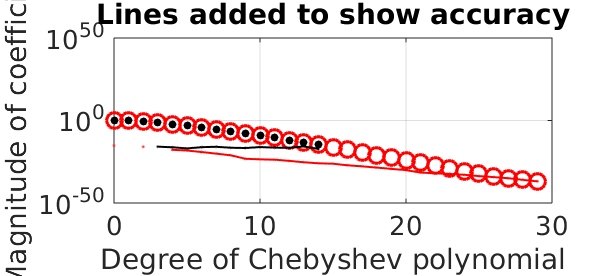
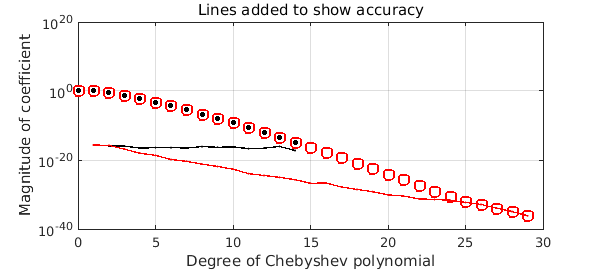
updating cheb/Turbo.m now that 'turbo' is in Chebfun

Changed region(s): [[0.0, 0.0, 0.93, 1.0], [0.45, 0.6519, 0.54, 0.6815]]

diff --git a/examples/cheb/Turbo.html b/examples/cheb/Turbo.html
@@ -61,34 +61,31 @@
     <div class="container">
 <div class="row main">
 <div id='content' class="col-sm-12 example" role="main">
-<pre class="mcode-input">function Turbo()</pre>
-
-<p>Chebfun works with standard floating-point arithmetic, usually giving about 16 digits of relative accuracy. So what's going on in the following picture?</p>
+<p>Chebfun works with standard floating-point arithmetic, usually giving about 15 digits of accuracy relative to the overall scale of a function. So what's going on in the following picture?</p>
 <pre class="mcode-input">f = chebfun(@exp);
-fturbo = chebfunturbo(@exp);
+fturbo = chebfun(@exp,'turbo');
 MS = 'markersize'; LW = 'linewidth';
 plotcoeffs(fturbo,'or',MS,8), grid on, hold on
 plotcoeffs(f,'.k',MS,14)
 title('Ordinary and turbocharged Cheb coeffs of exp(x)')</pre>
 
 <p><img src="img/Turbo_01.png" class="figure" alt=""/></p>
-<p>Somehow, using nothing but standard arithmetic, the <code>chebfunturbo</code> code finds coefficients down to about twice the usual level on a log scale.  And the improvement is genuine.  For example, the tenth derivative of <code>f</code> is not accurate at all:</p>
+<p>Somehow, using nothing but standard arithmetic, the <code>'turbo'</code> flag leads to Chebfun finding coefficients down to about twice the usual level on a log scale.  And the improvement is genuine.  For example, the tenth derivative of <code>f</code> is not accurate at all:</p>
 <pre class="mcode-input">f10 = diff(f,10); f10(0)</pre>
 
 <pre class="mcode-output">ans =
-   1.000002223524721
+   1.000002249308896
 </pre>
 
 <p>The tenth derivative of <code>fturbo</code>, on the other hand, has full accuracy.</p>
 <pre class="mcode-input">f10turbo = diff(fturbo,10); f10turbo(0)</pre>
 
 <pre class="mcode-output">ans =
-   1.000000000000001
+   1.000000000000038
 </pre>
 
-<p>The technique that makes this possible is evaluation of Chebyshev coefficients by contour integrals in the complex plane, discretized to high precision by the trapezoidal rule. Long ago, Lyness and Moler showed the power of the idea for Taylor coefficients, using circular contours [Lyness and Moler 1967], and Fornberg showed that improved accuracy could be achieved by an automatic determining of an effective radius for the circle of integration [Fornberg 1981]. More recently, Bornemann analyzed the effect of radius fully for Taylor coefficients, showing that in many cases every coefficient of a Taylor series can be computed in floating-point arithmetic to good relative accuracy by using a contour of sufficiently large radius [Bornemann 2011]. Wang and Huybrechs have carried over these ideas to computation of Chebyshev coefficients by contour integrals over Bernstein ellipses in the complex plane [Wang and Huybrechs 2014].</p>
-<p>The code <code>chebfunturbo</code> listed at the end of this Example implements a simple, nonoptimal version of this idea. We like to think of this as "turbocharged" since turbochargers take the exhaust tail from an engine and extract some extra power from it.</p>
-<p><code>chebfunturbo</code> starts from an ordinary chebfun, calling its length $n$. Then it computes $4n$ roots of unity and also the corresponding points on a Bernstein ellipse of parameter $\rho_2 = \rho^{2/3}$, where $\rho$ is the Chebfun ellipse for the ordinary chebfun, an estimate of the function's maximal Bernstein ellipse of analyticity.  (The mathematics of Bernstein ellipses is presented in Chapter 8 of [Trefethen 2013].) To compute Chebyshev coefficients from the ellipse data, it evaluates the function transplanted to the roots of unity and takes the FFT.  It then discards half the $4n$ coefficients, retaining the first $2n$.</p>
+<p>The technique that makes this possible is evaluation of Chebyshev coefficients by contour integrals in the complex plane, discretized to high precision by the trapezoidal rule. Long ago, Lyness and Moler showed the power of the idea for Taylor coefficients, using circular contours [Lyness and Moler 1967], and Fornberg showed that improved accuracy could be achieved by an automatic determination of an effective radius for the circle of integration [Fornberg 1981]. More recently, Bornemann analyzed the effect of radius fully for Taylor coefficients, showing that in many cases every coefficient of a Taylor series can be computed in floating-point arithmetic to good relative accuracy by using a contour of sufficiently large radius [Bornemann 2011]. Wang and Huybrechs have carried over these ideas to computation of Chebyshev coefficients by contour integrals over Bernstein ellipses in the complex plane [Wang and Huybrechs 2014].</p>
+<p>The <code>'turbo'</code> flag invokes a a simple, nonoptimal version of this idea. We like to think of this as "turbocharged" since turbochargers take the exhaust tail from an engine and extract some extra power from it.  The code is short, and you can see it in the Chebfun file <code>@chebtech/constructorTurbo.m</code>.  It starts from an ordinary chebfun, calling its length $n$. Then it computes $4n$ roots of unity and also the corresponding points on a Bernstein ellipse of parameter $\rho_2 = \rho^{2/3}$, where $\rho$ is the Chebfun ellipse for the ordinary chebfun, an estimate of the function's maximal Bernstein ellipse of analyticity.  (The mathematics of Bernstein ellipses is presented in Chapter 8 of [Trefethen 2013].) To compute Chebyshev coefficients from the ellipse data, it evaluates the function transplanted to the roots of unity and takes the FFT.  It then discards half the $4n$ coefficients, retaining the first $2n$.</p>
 <p>The Chebyshev coefficients of the exponential function are known exactly ([Trefethen 2013], p. 23). Taking advantage of this, we can add curves to the plot showing the accuracy of the coefficients.  Note that the turbo coefficients not only go to twice as high a degree, but they are more accurate all along.</p>
 <pre class="mcode-input">n = length(f); nn = (0:4*n-1)';
 cexact = 2*besseli((0:4*n-1)',1); cexact(1) = cexact(1)/2;
@@ -97,44 +94,22 @@ semilogy(0:2*n-1,abs(chebcoeffs(fturbo)-cexact(1:2*n)),'.-r',LW,1,MS,3)
 title('Lines added to show accuracy'), hold off</pre>
 
 <p><img src="img/Turbo_02.png" class="figure" alt=""/></p>
-<p>Using methods like this, we expect to introduce a <code>turbo</code> option in the chebfun constructor.  We don't imagine that this will be relevant to the typical Chebfun computation, but there may be some applications where it makes a difference.</p>
-<p>As a small indication of enhanced accuracy, here is a chebfun for the function $\exp(x) (1+100x^2)/(1+25x^2)$.  Mathematically, the function has a root at $x= 0.1i$.  Evaluating the ordinary chebfun at this point gives just 8 digits of accuracy.</p>
+<p>A chebfun constructed with <code>turbo</code> is not more accurate in an overall sense; it is merely that some of its higher-degree coefficients may be more accurate.  Thus it is not all all the case the <code>turbo</code> breaks the 16-digit barrier in a general way. But there may be some applications where it makes a difference. As a small indication of enhanced accuracy, here is a chebfun for the function $\exp(x) (1+100x^2)/(1+25x^2)$.  Mathematically, the function has a root at $x= 0.1i$.  Evaluating the ordinary chebfun at this point gives just 8 digits of accuracy.</p>
 <pre class="mcode-input">ff = @(x) exp(x).*(1+100*x.^2)./(1+25*x.^2);
 f = chebfun(ff);
 f(0.1i)</pre>
 
 <pre class="mcode-output">ans =
-      4.965066402462526e-08 + 1.908732122357648e-08i
+      3.075315468947792e-08 + 1.153521117513989e-08i
 </pre>
 
 <p>The turbocharged version of $f$, on the other hand, gets full accuracy.</p>
-<pre class="mcode-input">fturbo = chebfunturbo(ff);
+<pre class="mcode-input">fturbo = chebfun(ff,'turbo');
 fturbo(0.1i)</pre>
 
 <pre class="mcode-output">ans =
-      3.552713678800501e-15 + 3.330669073875470e-16i
+      0.000000000000000e+00 + 1.054711873393899e-15i
 </pre>
-
-<pre class="mcode-input">function fturbo = chebfunturbo(ff)
-
-% Simple test code that returns a "turbocharged" chebfun for the
-% function @(x) ff(x) on [-1,1].  In many cases this will have
-% more Chebyshev coeffs than an ordinary Chebfun, and more accurate.
-
-f = chebfun(ff);                         % ordinary chebfun made from ff
-n = length(f);                           % length of the ordinary
-rho = eps^(-1/(n-1));                    % Chebfun's value of rho
-rho2 = rho^(2/3);                        % smaller rho defining a "turbo ellipse"
-n4 = 4*n;                                % no. of sample pts on turbo ellipse
-z = exp(2i*pi*(0:n4-1)'/n4);             % 4n roots of unity
-w = (rho2*z+1./(rho2*z))/2;              % corresponding points on turbo ellipse
-fc = fft(ff(w))/n4;
-c = 2*fc./rho2.^(0:n4-1)';
-c(1) = c(1)/2;                           % coeffs computed from turbo ellipse
-c = c(1:2*n);                            % keep only 2n of them
-if norm(imag(c))&lt;1e-8, c = real(c); end  % discard imaginary rounding errors
-fturbo = chebfun(c,'coeffs');            % make the chebfun from its coeffs
-end</pre>
 
 <p>References:</p>
 <ol>
@@ -153,8 +128,7 @@ end</pre>
 <li>
 <p>H. Wang and D Huybrechs, Fast and highly accurate computation of Chebyshev expansions coefficients of analytic functions, submitted, 2014.</p>
 </li>
-</ol>
-<pre class="mcode-input">end</pre></div>
+</ol></div>
         </div>
     </div>
 </div>

diff --git a/examples/cheb/img/Turbo.html b/examples/cheb/img/Turbo.html
@@ -5,28 +5,26 @@ authordate: "Anthony Austin and Nick Trefethen, July 2015"
 meta: "(Chebfun example cheb/Turbo.m) [Tags: #Wang-Huybrechs, #contour integral, #Bernstein ellipse, #accuracy]"
 ---
 
-<pre class="mcode-input">function Turbo()</pre>Chebfun works with standard floating-point arithmetic, usually giving about 16 digits of relative accuracy. So what's going on in the following picture?
+Chebfun works with standard floating-point arithmetic, usually giving about 15 digits of accuracy relative to the overall scale of a function. So what's going on in the following picture?
 
 <pre class="mcode-input">f = chebfun(@exp);
-fturbo = chebfunturbo(@exp);
+fturbo = chebfun(@exp,'turbo');
 MS = 'markersize'; LW = 'linewidth';
 plotcoeffs(fturbo,'or',MS,8), grid on, hold on
 plotcoeffs(f,'.k',MS,14)
 title('Ordinary and turbocharged Cheb coeffs of exp(x)')</pre><img src="img/Turbo_01.png" class="figure" alt=""/>
 
-Somehow, using nothing but standard arithmetic, the `chebfunturbo` code finds coefficients down to about twice the usual level on a log scale.  And the improvement is genuine.  For example, the tenth derivative of `f` is not accurate at all:
+Somehow, using nothing but standard arithmetic, the `'turbo'` flag leads to Chebfun finding coefficients down to about twice the usual level on a log scale.  And the improvement is genuine.  For example, the tenth derivative of `f` is not accurate at all:
 
 <pre class="mcode-input">f10 = diff(f,10); f10(0)</pre><pre class="mcode-output">ans =
-   1.000002223524721
+   1.000002249308896
 </pre>The tenth derivative of `fturbo`, on the other hand, has full accuracy.
 
 <pre class="mcode-input">f10turbo = diff(fturbo,10); f10turbo(0)</pre><pre class="mcode-output">ans =
-   1.000000000000001
-</pre>The technique that makes this possible is evaluation of Chebyshev coefficients by contour integrals in the complex plane, discretized to high precision by the trapezoidal rule. Long ago, Lyness and Moler showed the power of the idea for Taylor coefficients, using circular contours [Lyness and Moler 1967], and Fornberg showed that improved accuracy could be achieved by an automatic determining of an effective radius for the circle of integration [Fornberg 1981]. More recently, Bornemann analyzed the effect of radius fully for Taylor coefficients, showing that in many cases every coefficient of a Taylor series can be computed in floating-point arithmetic to good relative accuracy by using a contour of sufficiently large radius [Bornemann 2011]. Wang and Huybrechs have carried over these ideas to computation of Chebyshev coefficients by contour integrals over Bernstein ellipses in the complex plane [Wang and Huybrechs 2014].
+   1.000000000000038
+</pre>The technique that makes this possible is evaluation of Chebyshev coefficients by contour integrals in the complex plane, discretized to high precision by the trapezoidal rule. Long ago, Lyness and Moler showed the power of the idea for Taylor coefficients, using circular contours [Lyness and Moler 1967], and Fornberg showed that improved accuracy could be achieved by an automatic determination of an effective radius for the circle of integration [Fornberg 1981]. More recently, Bornemann analyzed the effect of radius fully for Taylor coefficients, showing that in many cases every coefficient of a Taylor series can be computed in floating-point arithmetic to good relative accuracy by using a contour of sufficiently large radius [Bornemann 2011]. Wang and Huybrechs have carried over these ideas to computation of Chebyshev coefficients by contour integrals over Bernstein ellipses in the complex plane [Wang and Huybrechs 2014].
 
-The code `chebfunturbo` listed at the end of this Example implements a simple, nonoptimal version of this idea. We like to think of this as "turbocharged" since turbochargers take the exhaust tail from an engine and extract some extra power from it.
-
-`chebfunturbo` starts from an ordinary chebfun, calling its length $n$. Then it computes $4n$ roots of unity and also the corresponding points on a Bernstein ellipse of parameter $\rho_2 = \rho^{2/3}$, where $\rho$ is the Chebfun ellipse for the ordinary chebfun, an estimate of the function's maximal Bernstein ellipse of analyticity.  (The mathematics of Bernstein ellipses is presented in Chapter 8 of [Trefethen 2013].) To compute Chebyshev coefficients from the ellipse data, it evaluates the function transplanted to the roots of unity and takes the FFT.  It then discards half the $4n$ coefficients, retaining the first $2n$.
+The `'turbo'` flag invokes a a simple, nonoptimal version of this idea. We like to think of this as "turbocharged" since turbochargers take the exhaust tail from an engine and extract some extra power from it.  The code is short, and you can see it in the Chebfun file `@chebtech/constructorTurbo.m`.  It starts from an ordinary chebfun, calling its length $n$. Then it computes $4n$ roots of unity and also the corresponding points on a Bernstein ellipse of parameter $\rho_2 = \rho^{2/3}$, where $\rho$ is the Chebfun ellipse for the ordinary chebfun, an estimate of the function's maximal Bernstein ellipse of analyticity.  (The mathematics of Bernstein ellipses is presented in Chapter 8 of [Trefethen 2013].) To compute Chebyshev coefficients from the ellipse data, it evaluates the function transplanted to the roots of unity and takes the FFT.  It then discards half the $4n$ coefficients, retaining the first $2n$.
 
 The Chebyshev coefficients of the exponential function are known exactly ([Trefethen 2013], p. 23). Taking advantage of this, we can add curves to the plot showing the accuracy of the coefficients.  Note that the turbo coefficients not only go to twice as high a degree, but they are more accurate all along.
 
@@ -36,39 +34,18 @@ semilogy(0:n-1,abs(chebcoeffs(f)-cexact(1:n)),'.-k',LW,1,MS,3)
 semilogy(0:2*n-1,abs(chebcoeffs(fturbo)-cexact(1:2*n)),'.-r',LW,1,MS,3)
 title('Lines added to show accuracy'), hold off</pre><img src="img/Turbo_02.png" class="figure" alt=""/>
 
-Using methods like this, we expect to introduce a `turbo` option in the chebfun constructor.  We don't imagine that this will be relevant to the typical Chebfun computation, but there may be some applications where it makes a difference.
-
-As a small indication of enhanced accuracy, here is a chebfun for the function $\exp(x) (1+100x^2)/(1+25x^2)$.  Mathematically, the function has a root at $x= 0.1i$.  Evaluating the ordinary chebfun at this point gives just 8 digits of accuracy.
+A chebfun constructed with `turbo` is not more accurate in an overall sense; it is merely that some of its higher-degree coefficients may be more accurate.  Thus it is not all all the case the `turbo` breaks the 16-digit barrier in a general way. But there may be some applications where it makes a difference. As a small indication of enhanced accuracy, here is a chebfun for the function $\exp(x) (1+100x^2)/(1+25x^2)$.  Mathematically, the function has a root at $x= 0.1i$.  Evaluating the ordinary chebfun at this point gives just 8 digits of accuracy.
 
 <pre class="mcode-input">ff = @(x) exp(x).*(1+100*x.^2)./(1+25*x.^2);
 f = chebfun(ff);
 f(0.1i)</pre><pre class="mcode-output">ans =
-      4.965066402462526e-08 + 1.908732122357648e-08i
+      3.075315468947792e-08 + 1.153521117513989e-08i
 </pre>The turbocharged version of $f$, on the other hand, gets full accuracy.
 
-<pre class="mcode-input">fturbo = chebfunturbo(ff);
+<pre class="mcode-input">fturbo = chebfun(ff,'turbo');
 fturbo(0.1i)</pre><pre class="mcode-output">ans =
-      3.552713678800501e-15 + 3.330669073875470e-16i
-</pre><pre class="mcode-input">function fturbo = chebfunturbo(ff)
-
-% Simple test code that returns a "turbocharged" chebfun for the
-% function @(x) ff(x) on [-1,1].  In many cases this will have
-% more Chebyshev coeffs than an ordinary Chebfun, and more accurate.
-
-f = chebfun(ff);                         % ordinary chebfun made from ff
-n = length(f);                           % length of the ordinary
-rho = eps^(-1/(n-1));                    % Chebfun's value of rho
-rho2 = rho^(2/3);                        % smaller rho defining a "turbo ellipse"
-n4 = 4*n;                                % no. of sample pts on turbo ellipse
-z = exp(2i*pi*(0:n4-1)'/n4);             % 4n roots of unity
-w = (rho2*z+1./(rho2*z))/2;              % corresponding points on turbo ellipse
-fc = fft(ff(w))/n4;
-c = 2*fc./rho2.^(0:n4-1)';
-c(1) = c(1)/2;                           % coeffs computed from turbo ellipse
-c = c(1:2*n);                            % keep only 2n of them
-if norm(imag(c))&lt;1e-8, c = real(c); end  % discard imaginary rounding errors
-fturbo = chebfun(c,'coeffs');            % make the chebfun from its coeffs
-end</pre>References:
+      0.000000000000000e+00 + 1.054711873393899e-15i
+</pre>References:
 
 1. F. Bornemann, Accuracy and stability of computing high-order derivatives of analytic functions by Cauchy integrals, _Foundations of Computational Mathematics_ (2011), 1--63.
 
@@ -80,4 +57,3 @@ end</pre>References:
 
 5. H. Wang and D Huybrechs, Fast and highly accurate computation of Chebyshev expansions coefficients of analytic functions, submitted, 2014.
 
-<pre class="mcode-input">end</pre>

diff --git a/index.html b/index.html
@@ -208,5 +208,5 @@ plot(minx(1),minx(2),'.w')
     <script type="text/javascript" src="/js/config.js"></script>
     <script type="text/javascript" src="/js/jquery.flexslider-min.js"></script>
   </body>
-<!-- Compiled on Wednesday, 09 December 2015 at 18:20. -->
+<!-- Compiled on Thursday, 10 December 2015 at 11:52. -->
 </html>

diff --git a/examples/cheb/Turbo.m b/examples/cheb/Turbo.m
@@ -5,21 +5,22 @@
 % (Chebfun example cheb/Turbo.m)
 % [Tags: #Wang-Huybrechs, #contour integral, #Bernstein ellipse, #accuracy]
 
-function Turbo()
 %%
 % Chebfun works with standard floating-point arithmetic,
-% usually giving about 16 digits of relative accuracy.
+% usually giving about 15 digits of accuracy relative to the
+% overall scale of a function.
 % So what's going on in the following picture?
 f = chebfun(@exp);
-fturbo = chebfunturbo(@exp);
+fturbo = chebfun(@exp,'turbo');
 MS = 'markersize'; LW = 'linewidth';
 plotcoeffs(fturbo,'or',MS,8), grid on, hold on
 plotcoeffs(f,'.k',MS,14)
 title('Ordinary and turbocharged Cheb coeffs of exp(x)')
 
 %%
-% Somehow, using nothing but standard arithmetic, the |chebfunturbo|
-% code finds coefficients down to about twice the usual level
+% Somehow, using nothing but standard arithmetic, the |'turbo'|
+% flag leads to Chebfun finding
+% coefficients down to about twice the usual level
 % on a log scale.  And the improvement is genuine.  For
 % example, the tenth derivative of |f| is not accurate at all:
 f10 = diff(f,10); f10(0)
@@ -37,7 +38,7 @@ f10turbo = diff(fturbo,10); f10turbo(0)
 % Lyness and Moler showed the power of the idea for Taylor coefficients, using
 % circular contours [Lyness and Moler 1967],
 % and Fornberg showed that improved accuracy could
-% be achieved by an automatic determining of an effective
+% be achieved by an automatic determination of an effective
 % radius for the circle of integration [Fornberg 1981].
 % More recently,
 % Bornemann analyzed the effect of radius fully for Taylor coefficients,
@@ -50,14 +51,11 @@ f10turbo = diff(fturbo,10); f10turbo(0)
 % [Wang and Huybrechs 2014].
 
 %%
-% The code |chebfunturbo| listed at the end of this Example
-% implements a simple, nonoptimal version of this idea.
+% The |'turbo'| flag invokes a a simple, nonoptimal version of this idea.
 % We like to think of this as "turbocharged" since turbochargers
 % take the exhaust tail from an engine and extract some extra
-% power from it.
-
-%%
-% |chebfunturbo| starts from 
+% power from it.  The code is short, and you can see it
+% in the Chebfun file |@chebtech/constructorTurbo.m|.  It starts from 
 % an ordinary chebfun, calling its length $n$.
 % Then it computes $4n$ roots of unity and also the corresponding
 % points on a Bernstein ellipse of parameter $\rho_2 = \rho^{2/3}$,
@@ -84,13 +82,11 @@ semilogy(0:2*n-1,abs(chebcoeffs(fturbo)-cexact(1:2*n)),'.-r',LW,1,MS,3)
 title('Lines added to show accuracy'), hold off
 
 %%
-% Using methods like this, we expect to introduce a
-% |turbo| option in the chebfun constructor.  We don't
-% imagine that this will be relevant to the typical Chebfun
-% computation, but there may be some applications where it makes
-% a difference. 
-
-%%
+% A chebfun constructed with |turbo| is not more accurate
+% in an overall sense; it is merely that some of its higher-degree
+% coefficients may be more accurate.  Thus it is not all all the
+% case the |turbo| breaks the 16-digit barrier in a general way.
+% But there may be some applications where it makes a difference. 
 % As a small indication of enhanced accuracy, here is a chebfun
 % for the function $\exp(x) (1+100x^2)/(1+25x^2)$.  Mathematically,
 % the function has a root at $x= 0.1i$.  Evaluating the ordinary chebfun
@@ -102,31 +98,9 @@ f(0.1i)
 %%
 % The turbocharged version of $f$, on the other hand, gets full
 % accuracy.
-fturbo = chebfunturbo(ff);
+fturbo = chebfun(ff,'turbo');
 fturbo(0.1i)
 
-%%
-
-function fturbo = chebfunturbo(ff)  
-
-% Simple test code that returns a "turbocharged" chebfun for the
-% function @(x) ff(x) on [-1,1].  In many cases this will have
-% more Chebyshev coeffs than an ordinary Chebfun, and more accurate. 
-
-f = chebfun(ff);                         % ordinary chebfun made from ff
-n = length(f);                           % length of the ordinary 
-rho = eps^(-1/(n-1));                    % Chebfun's value of rho
-rho2 = rho^(2/3);                        % smaller rho defining a "turbo ellipse"
-n4 = 4*n;                                % no. of sample pts on turbo ellipse
-z = exp(2i*pi*(0:n4-1)'/n4);             % 4n roots of unity
-w = (rho2*z+1./(rho2*z))/2;              % corresponding points on turbo ellipse
-fc = fft(ff(w))/n4;
-c = 2*fc./rho2.^(0:n4-1)';
-c(1) = c(1)/2;                           % coeffs computed from turbo ellipse
-c = c(1:2*n);                            % keep only 2n of them
-if norm(imag(c))<1e-8, c = real(c); end  % discard imaginary rounding errors
-fturbo = chebfun(c,'coeffs');            % make the chebfun from its coeffs
-end
 
 %%
 % References:
@@ -149,7 +123,4 @@ end
 % 5. H. Wang and D Huybrechs, Fast and highly accurate computation
 % of Chebyshev expansions coefficients of analytic functions,
 % submitted, 2014.
-
-
-end
 
